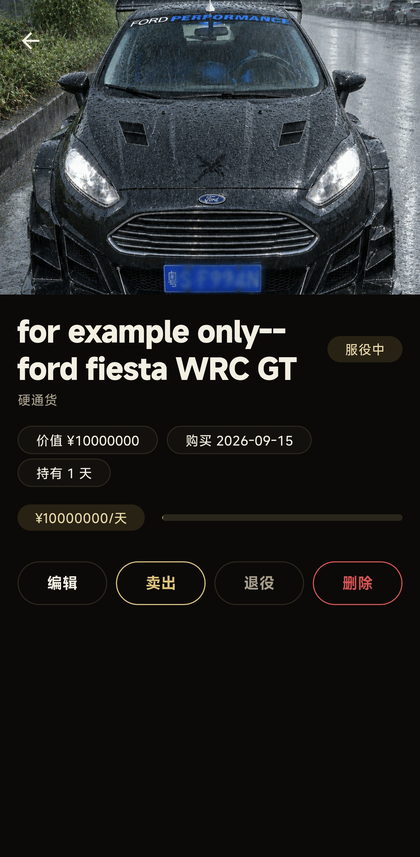
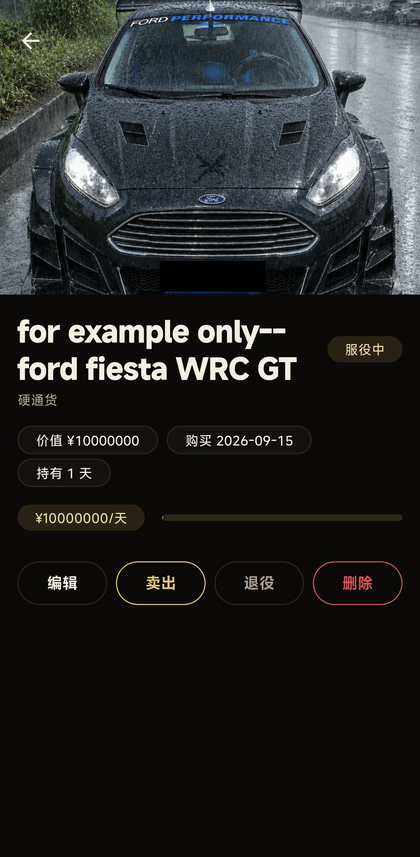
Screenshots: replace the placeholders with the eight device captures (420 px wide, dead background trimmed, README and README_zh rearranged) and paint the number plate black in the two captures that show the car

Changed region(s): [[0.3714, 0.3034, 0.65, 0.3641]]

diff --git a/tool/place_screenshots.py b/tool/place_screenshots.py
@@ -1,14 +1,15 @@
 """Place the supplied device screenshots into docs/screenshots/.
 
 Run: uv run --with pillow --python 3.12 python tool/place_screenshots.py
-- trims dead background above/below the real content (some captures carry a long
-  empty tail)
+- paints pure black over the number plate in the two captures that show the car
+  (owner's request: 车牌用纯黑盖住)
+- trims dead background above/below the real content
 - downscales to 420 px wide (2x the README display width of 210)
 - writes PNGs (flat UI compresses well and stays crisp)
 - removes the SVG placeholders they replace
 """
 from pathlib import Path
-from PIL import Image
+from PIL import Image, ImageDraw
 
 UPLOADS = Path(r"C:\Users\JHarayden\.hermes-web-ui\upload\default")
 OUT = Path(__file__).resolve().parent.parent / "docs" / "screenshots"
@@ -24,6 +25,14 @@ SHOTS = [
     ("07-splash", "82274e0fb46f4f1f.jpg", "splash"),
     ("08-asset-detail", "4789e996d3cc5a00.jpg", "asset detail"),
 ]
+
+# Redactions in ORIGINAL pixel coordinates (left, top, right, bottom) - number plates.
+COVERS = {
+    # list thumbnail of the car
+    "04-assets": [(190, 1472, 272, 1502)],
+    # hero photo on the asset detail page
+    "08-asset-detail": [(548, 895, 910, 1000)],
+}
 
 WIDTH = 420
 MARGIN = 16
@@ -50,13 +59,11 @@ def trim_flat(image: Image.Image) -> Image.Image:
         ):
             last = y
             break
-    top = max(0, first - MARGIN)
-    bottom = min(h, last + 1 + MARGIN)
-    return image.crop((0, top, w, bottom))
+    return image.crop((0, max(0, first - MARGIN), w, min(h, last + 1 + MARGIN)))
 
 
 total = 0
-print(f"{'target':18} {'orig':>12} {'trimmed':>12} {'out':>11} {'bytes':>8}")
+print(f"{'target':18} {'orig':>12} {'trimmed':>12} {'out':>11} {'bytes':>8}  covers")
 for name, src, label in SHOTS:
     src_path = UPLOADS / src
     if not src_path.exists():
@@ -64,6 +71,11 @@ for name, src, label in SHOTS:
         continue
     im = Image.open(src_path).convert("RGB")
     orig = im.size
+    covers = COVERS.get(name, [])
+    if covers:
+        draw = ImageDraw.Draw(im)
+        for box in covers:
+            draw.rectangle(box, fill=(0, 0, 0))
     im = trim_flat(im)
     trimmed = im.size
     height = round(im.height * WIDTH / im.width)
@@ -72,7 +84,10 @@ for name, src, label in SHOTS:
     im.save(dst, format="PNG", optimize=True)
     size = dst.stat().st_size
     total += size
-    print(f"{name:18} {str(orig):>12} {str(trimmed):>12} {f'{WIDTH}x{height}':>11} {size:>8}")
+    print(
+        f"{name:18} {str(orig):>12} {str(trimmed):>12} {f'{WIDTH}x{height}':>11} "
+        f"{size:>8}  {covers if covers else '-'}"
+    )
 
 for old in OUT.glob("*.svg"):
     old.unlink()
